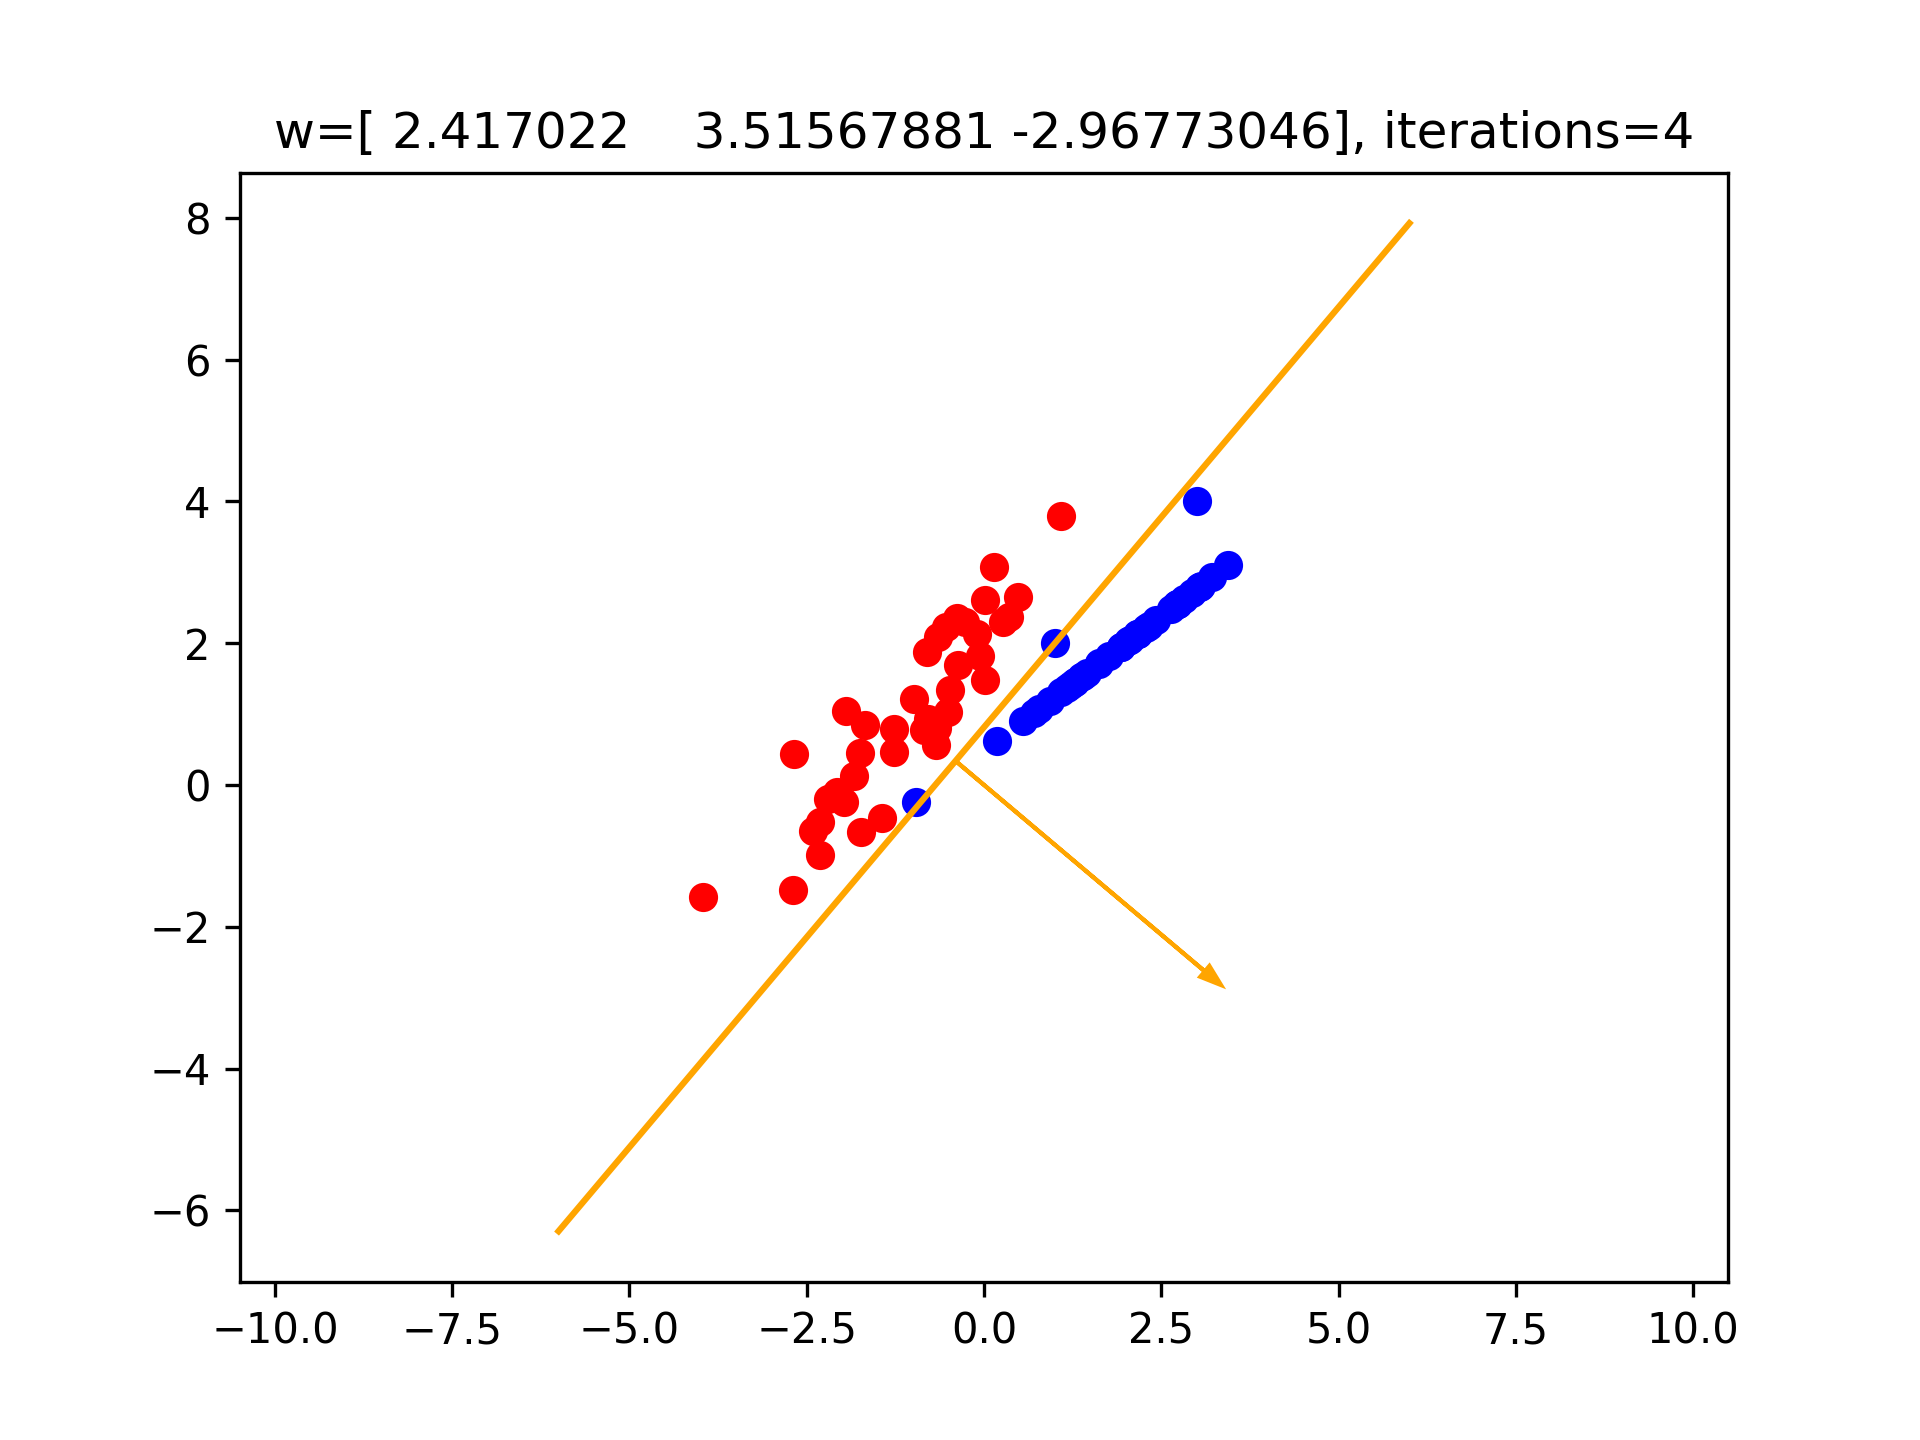
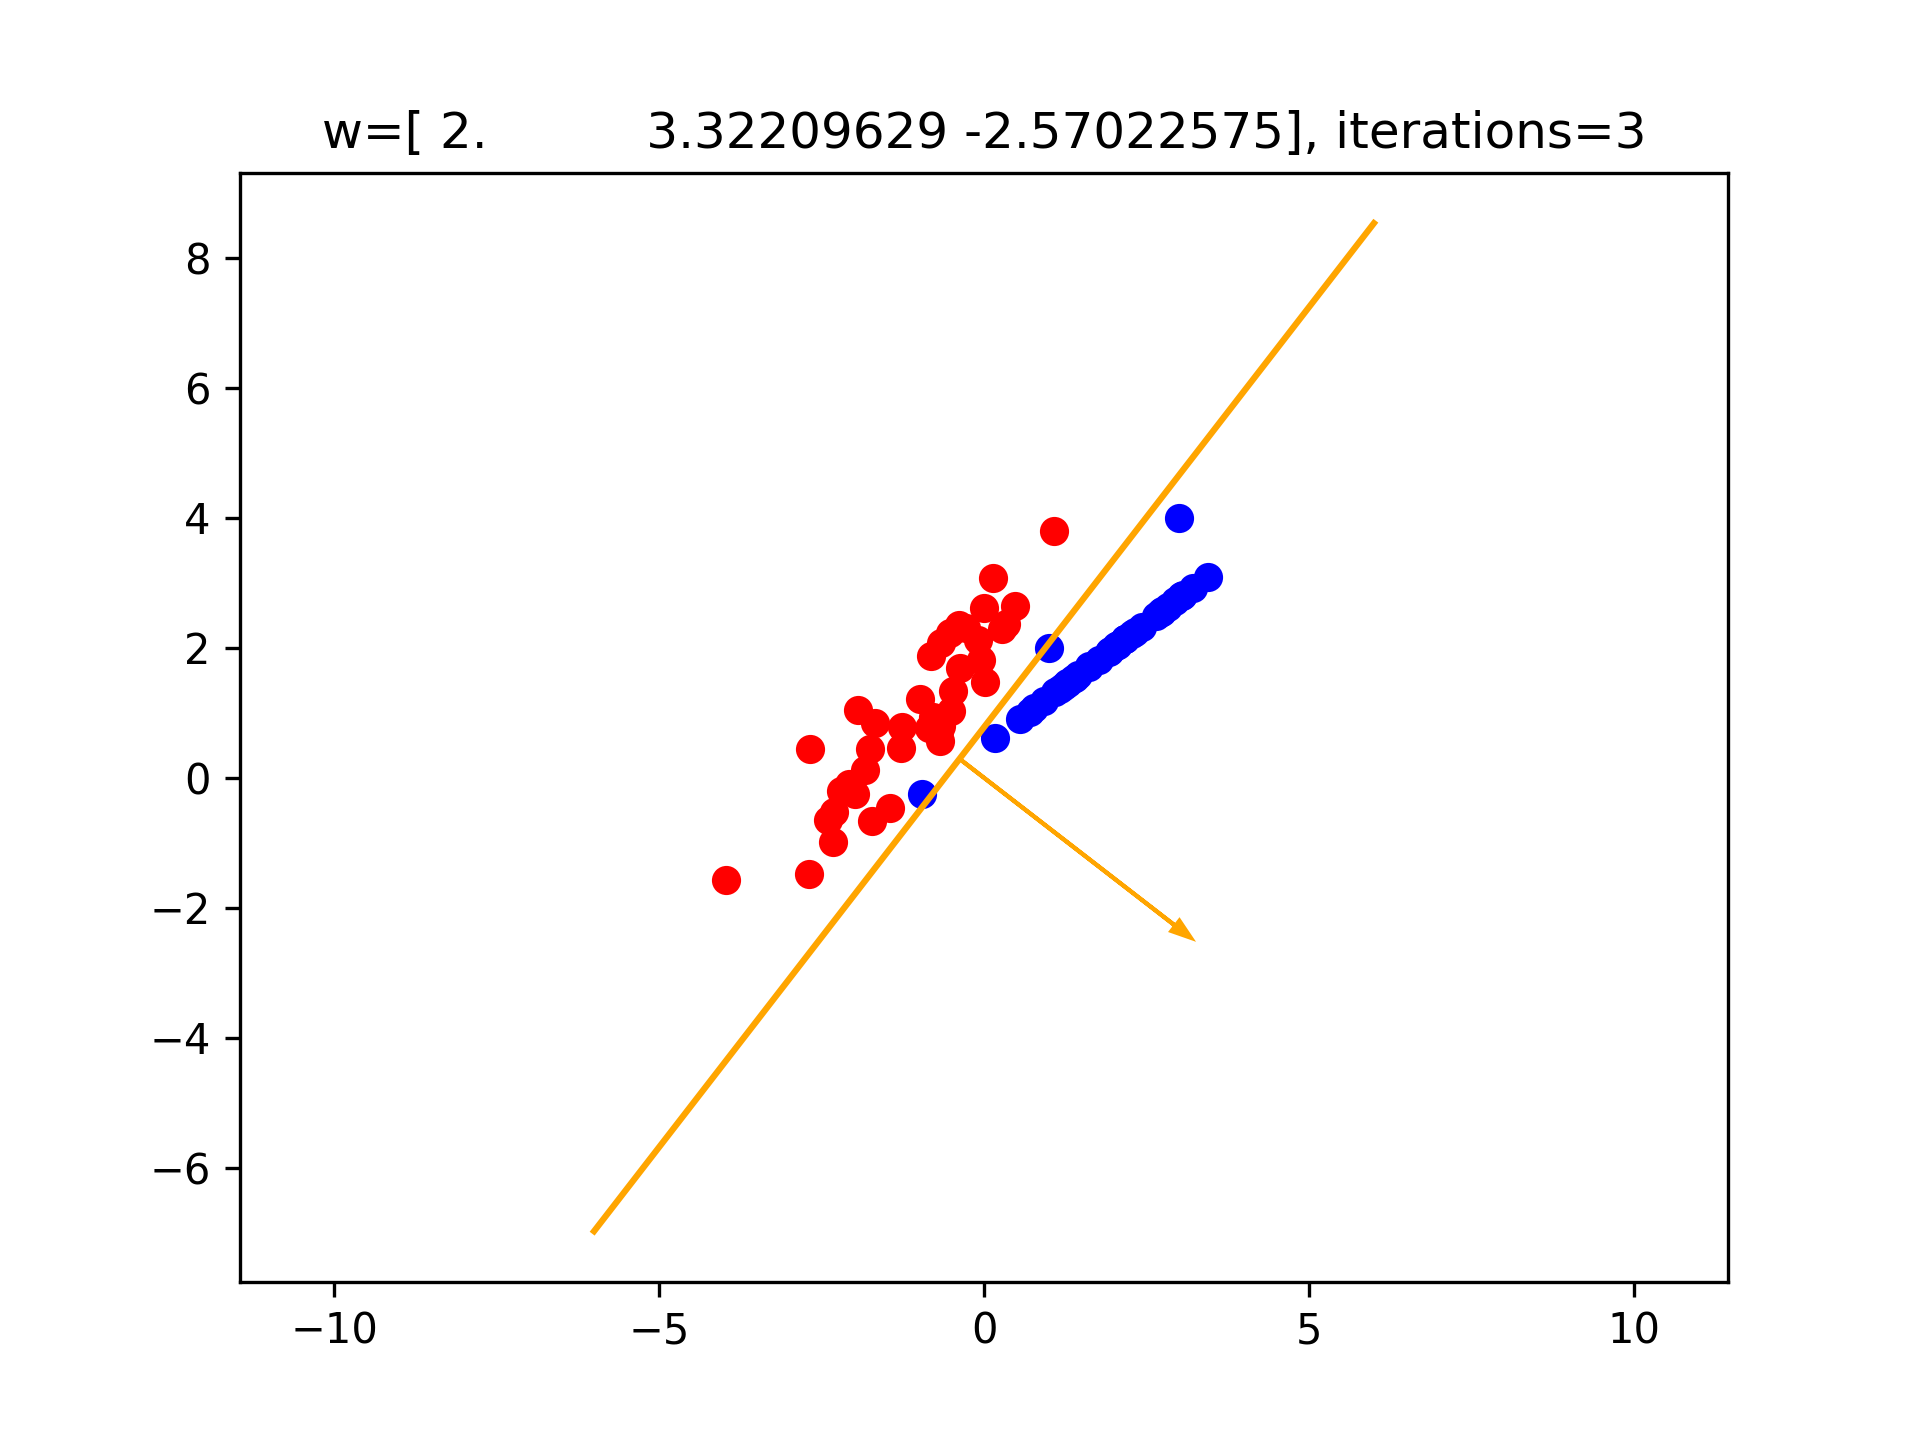
updating code

diff --git a/Final_Exam/Q3.py b/Final_Exam/Q3.py
@@ -1,7 +1,9 @@
 import numpy as np
 import pandas as pd
 import matplotlib.pyplot as plt
-
+################################################################
+# If you want to test the code change to your own data location
+################################################################
 X = np.array(pd.read_csv("./Final_Exam/Data/Q3X.csv"))
 y = np.array(pd.read_csv("./Final_Exam/Data/Q3y.csv"))
 b = np.array([np.array([1]) for i in range(len(X))])
@@ -11,7 +13,6 @@ b = np.array([np.array([1]) for i in range(len(X))])
 # Question 3 a
 ####################################################################################################################################
 ####################################################################################################################################
-
 # This part of code is from the pseudo-code
 
 
@@ -34,6 +35,9 @@ def perceptron(X, y, max_iter=100):
     return w_0, counter
 
 
+# This part of code is from Tutorial NeuralLearning
+# you can find the same code from the moodle
+# https://moodle.telt.unsw.edu.au/mod/folder/view.php?id=3975383
 def plot_perceptron(ax, X, y, w):
     pos_points = X[np.where(y == 1)[0]]
     neg_points = X[np.where(y == -1)[0]]
@@ -51,6 +55,8 @@ def plot_perceptron(ax, X, y, w):
     ax.axis('equal')
 
 
+# This part of code is from the exam instruction
+# https: // moodle.telt.unsw.edu.au/mod/folder/view.php?id = 4062576
 w, nmb_iter = perceptron(X, y, max_iter=100)  # your trained perceptron
 fig, ax = plt.subplots()
 plot_perceptron(ax, X, y, w)  # from neural learning lab
@@ -58,17 +64,56 @@ ax.set_title(f"w={w}, iterations={nmb_iter}")
 plt.savefig("name.png", dpi=300)  # if you want to save your plot as a png
 plt.show()
 
-####################################################################################################################################
-####################################################################################################################################
-# Question 3 b
-####################################################################################################################################
-####################################################################################################################################
-
-alpha = np.array([np.array([0]) for i in range(len(X))])
-
 
 ####################################################################################################################################
 ####################################################################################################################################
 # Question 3 c
 ####################################################################################################################################
 ####################################################################################################################################
+
+
+def dual_perceptron(X, y, max_iter=100):
+    np.random.seed(1)
+    # your code here
+    eta = 1
+    r = 2
+    w = np.zeros((3, 1))
+    # Notice here is the same length with y
+    length_y = len(y)
+    zero_size = (length_y, 1)
+    I = np.zeros(zero_size)
+    counter = 0
+    for _ in range(max_iter):
+        counter = counter + 1
+        flag = 0
+        for i in range(len(y)):
+            w_T = w.T
+            # change to same sime to do the dot
+            current_x = X[i].reshape(3, 1)
+            I_r = I[i]*r
+            y_W_x = y[i] * w_T.dot(current_x)
+            y_W_x_I_r = y_W_x + I_r
+            if y_W_x_I_r <= 0:
+                # Adding constraint for w
+                y_X = y[i] * X[i]
+                w[:, 0] += y_X
+                # Setting the I
+                I[i] = 1
+                # Setting the flag
+                flag = 1
+        # Flag break
+        # Flag = 0 not in the iteration just break
+        if flag == 0:
+            return w, counter
+    return w, counter
+
+
+# This part of code is from the exam instruction
+# https: // moodle.telt.unsw.edu.au/mod/folder/view.php?id = 4062576
+w, nmb_iter = dual_perceptron(X, y, max_iter=100)
+w = w[:, 0]
+fig, ax = plt.subplots()
+plot_perceptron(ax, X, y, w)  # from neural learning lab
+ax.set_title(f"w={w}, iterations={nmb_iter}")
+plt.savefig("Q3c.png", dpi=300)  # if you want to save your plot as a png
+plt.show()

diff --git a/Final_Exam/Q4.py b/Final_Exam/Q4.py
@@ -27,8 +27,9 @@ def Loss_function(pred_y, y_truth):
 
 def total_loss(X, y, Z, models):
     loss_sum = 0
-    model_number = len(models)
-    for index in range(model_number):
+    # Looping the model in the list
+    for index in range(len(models)):
+        # Finding the index where z equals to index
         index_checker = np.where(Z == index)
         data_X = X[index_checker]
         data_y = y[index_checker]
@@ -39,9 +40,10 @@ def total_loss(X, y, Z, models):
             continue
         current_model = models[index]
         current_model_coef_ = current_model.coef_
-        predict_y = data_X.dot(current_model_coef_.T)
+        current_coef_T = current_model_coef_.T
+        predict_y = data_X.dot(current_coef_T)
         # From this part is to compute the loss value
-        loss_sum += Loss_function(predict_y, data_y)
+        loss_sum = loss_sum + Loss_function(predict_y, data_y)
     return loss_sum
 
 
@@ -54,3 +56,38 @@ Z = np.zeros(shape=X.shape[0])
 model_list = [mod]
 print(total_loss(X, y, Z, model_list))  # outputs 298.328178158043
 print()
+
+###########################################################
+###########################################################
+# Question 4 question d
+###########################################################
+###########################################################
+
+test_data = pd.read_csv("./Final_Exam/Data/Q4_test.csv")
+print(test_data)
+X_test = np.array(test_data.iloc[:, 1: 6])
+# get the column contain y
+y_test = np.array(test_data.iloc[:, 6: 7])
+print(X_test.shape)
+print(y_test)
+
+
+def find_partitions(X, y, models):
+    """
+    given M models, assigns points in X to one of the M partitions
+    :param X: design matrix, n x p (np.array shape (n,p))
+    :param y: response vector, n x 1 (np.array shape (n,1) or (n,))
+    :param models: a list of M sklearn LinearRegression models for each of the partitions
+    returns: Z, a np.array of shape (n,) assigning each of the points in X to one of M partitions
+    """
+    M = len(models)
+    loss_mat = np.zeros((M, X.shape[0]))
+    for i in range(M):
+        loss_mat[i] = (
+            (np.dot(X, models[i].coef_.T) - y) ** 2)
+    Z = np.argmin(loss_mat, axis=0)
+    return Z
+
+
+Z = find_partitions(X_test, y_test, model_list)
+print(total_loss(X_test, y_test, Z, model_list))  # outputs 54.3679338727877

diff --git a/Final_Exam/Q2.py b/Final_Exam/Q2.py
@@ -1,26 +1,36 @@
+from anytree import Node, RenderTree
 from sklearn.linear_model import Perceptron
 import numpy as np
+import pandas as pd
 import itertools
 
-
+###############################################################################################
+###############################################################################################
+# Question2 b
+###############################################################################################
+###############################################################################################
 # Entering these data from the Exam instruction
+# For X in data4 which length is 7
+# Therefore, the total situation in dataset X which is 2^7=128.
+# This is because the current feature only has 0 or 1 which are 2 situations
 data1 = ["010", "011", "100", "111"]
 data2 = ["011", "100", "110", "111"]
 data3 = ["0100", "0101", "0110", "1000", "1100", "1101", "1110", "1111"]
 data4 = ["1000000", "1000001", "1000101"]
 
-# For X in data4 which length is 7
-# Therefore, the total situation in dataset X which is 2^7=128.
-# This is because the current feature only has 0 or 1 which are 2 situations
-
 
 def train_perceptron(data_list: list):
     score_list = list()
+    iterations = 10000
+    learning_rate = 1.0
     for data in data_list:
         # Generating all situation of 0/1 combination 2^n
-        X = np.asarray(list(itertools.product([0, 1], repeat=len(data[-1]))))
         # Generating the traning y which contains only 1
         # Notice here the same length with X
+        Generating_X_list = list(
+            itertools.product([0, 1], repeat=len(data[-1])))
+        X = np.asarray(Generating_X_list)
+
         y = np.zeros(len(X))
         # print(y)
 
@@ -41,7 +51,7 @@ def train_perceptron(data_list: list):
 
         # Notice: the iteration is 10000 and the learning rate is 1.0
         perceptron_classifier = Perceptron(
-            max_iter=10000, eta0=1.0, random_state=0)
+            max_iter=iterations, eta0=learning_rate, random_state=0)
         perceptron_classifier.fit(X, y)
         score = perceptron_classifier.score(X, y)
         score_list.append(score)

diff --git a/Final_Exam/Q1.py b/Final_Exam/Q1.py
@@ -3,6 +3,11 @@ import pandas as pd
 from sklearn.linear_model import LogisticRegression
 import matplotlib.pyplot as plt
 
+################################################################
+# If you want to test the code change to your own data location
+# Also some of these code can be found on my own github hw2
+# SOurce： https://github.com/RRRRRRRRRRRoy/COMP9417
+################################################################
 
 Total_data = pd.read_csv("./Final_Exam/Data/Q1.csv")
 X = np.array(Total_data.iloc[:, 1: 31])
